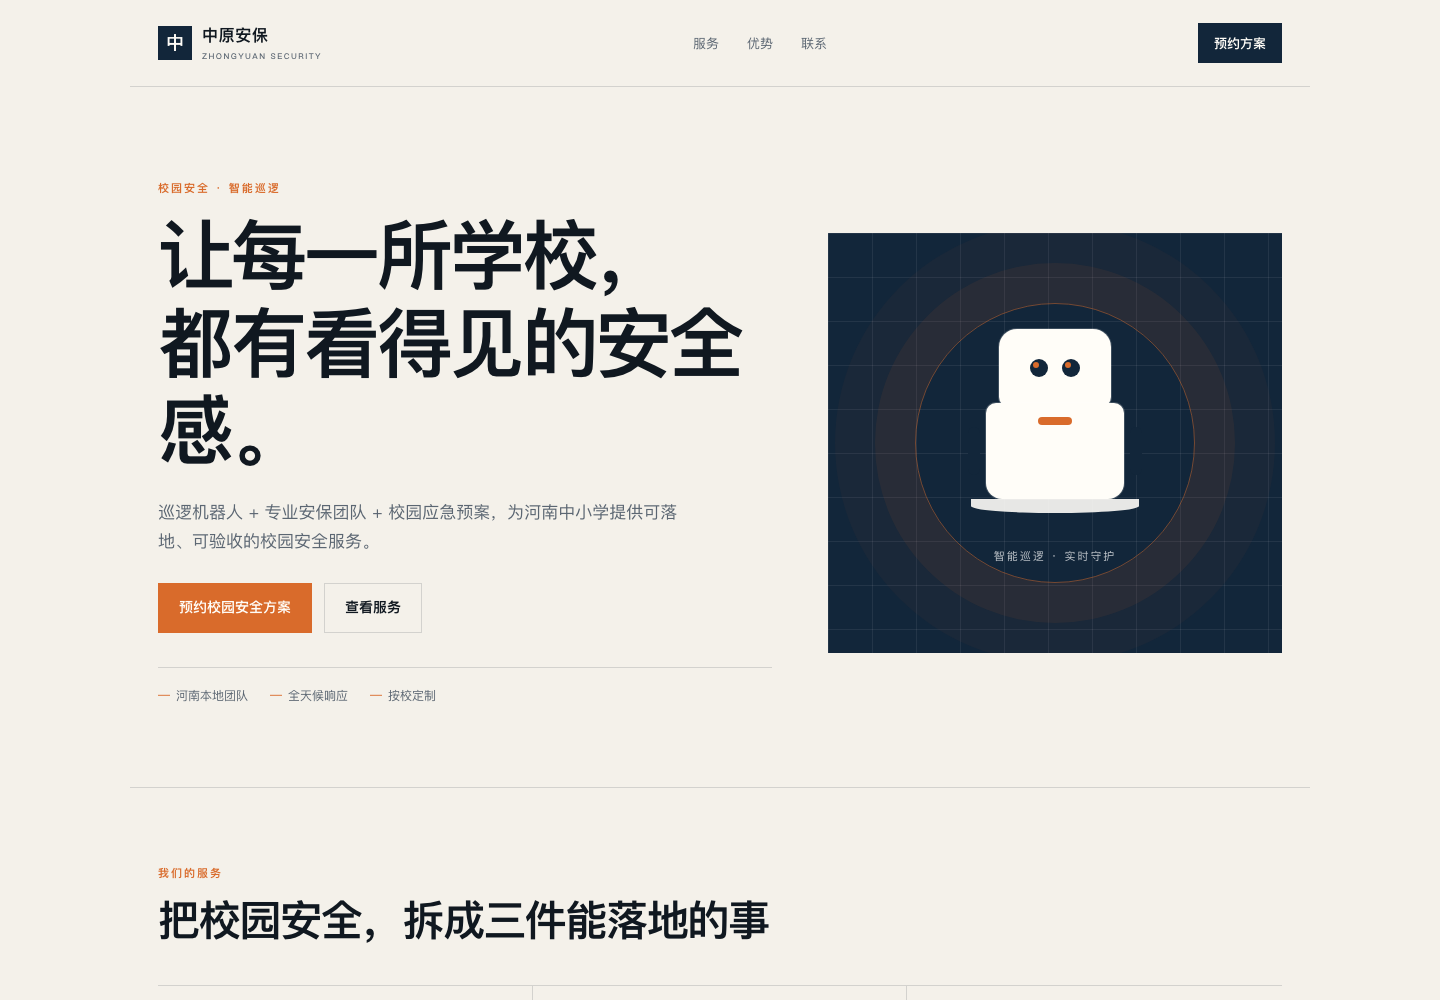
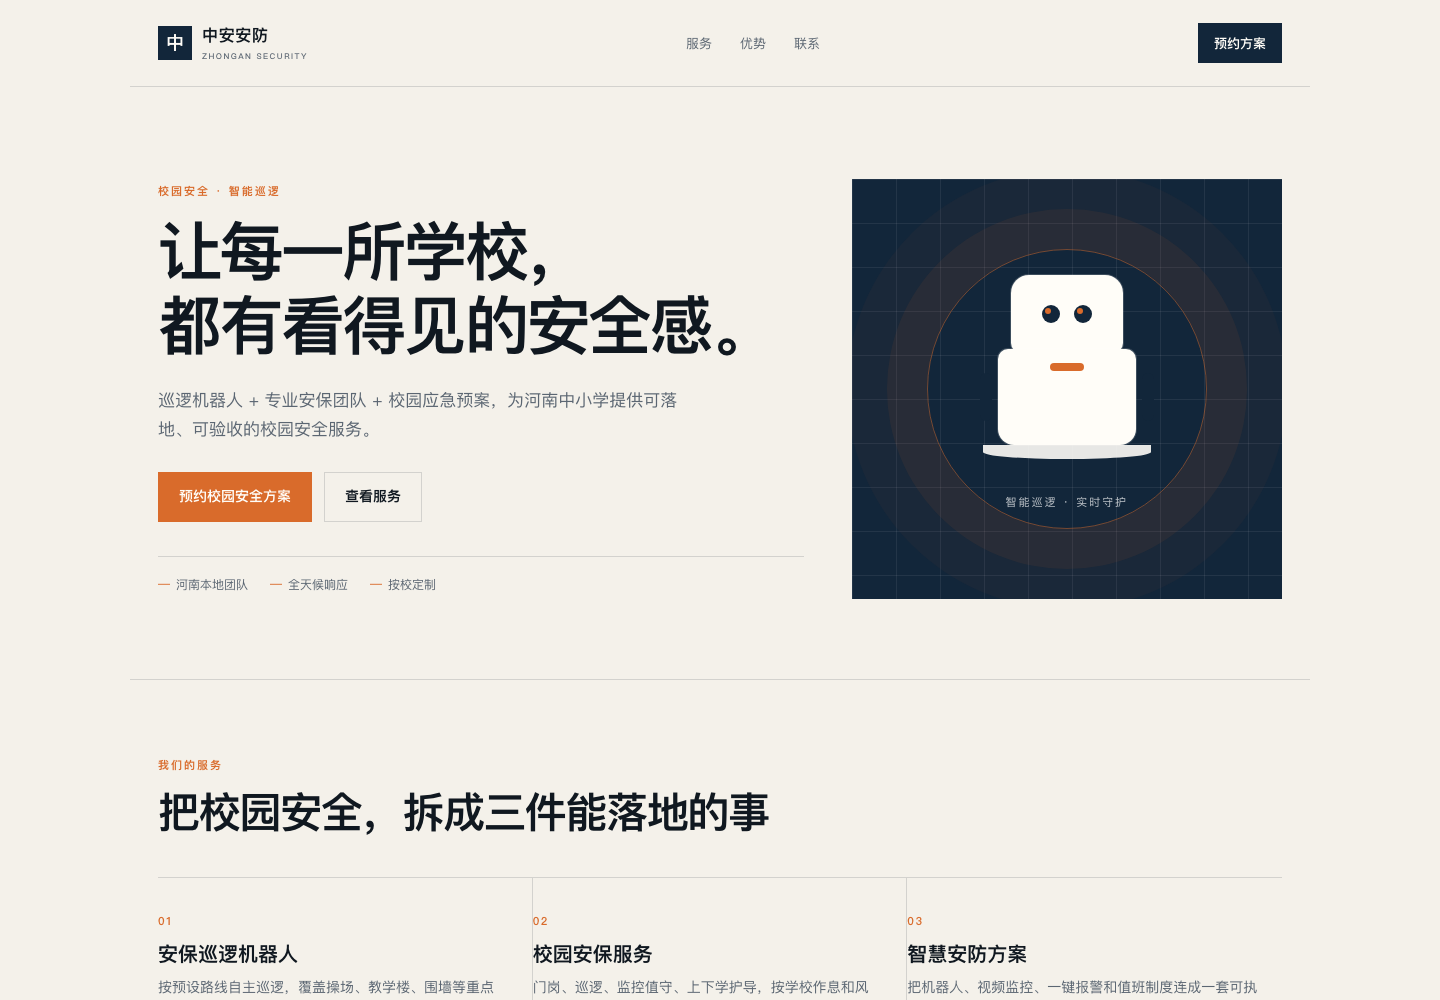
polish company info and add week 2 tasks

diff --git a/index.html b/index.html
@@ -10,12 +10,12 @@
   <header class="nav">
     <a class="brand" href="#">
       <span class="brand-mark">中</span>
-      <span class="brand-text">中安安防<small>ZHONGYUAN SECURITY</small></span>
+      <span class="brand-text">中安安防<small>ZHONGAN SECURITY</small></span>
     </a>
     <nav class="nav-links">
       <a href="#services">服务</a>
       <a href="#advantages">优势</a>
-      <a href="#contact">联系13683718999</a>
+      <a href="#contact">联系</a>
     </nav>
     <a class="nav-cta" href="#contact">预约方案</a>
   </header>
@@ -120,7 +120,7 @@
 
     <section class="quote">
       <p>“校园安全不是一次检查，而是每一天都能被看见、被记录、被响应。”</p>
-      <span>—— 中原安保</span>
+      <span>—— 中安安防</span>
     </section>
 
     <section class="section contact" id="contact">
@@ -132,17 +132,17 @@
       <div class="contact-card">
         <p class="contact-label">电话咨询</p>
         <a class="contact-phone" href="tel:13683718999">13683718999</a>
-        <p class="contact-label">邮箱77878888@qq.com</p>
-        <a class="contact-mail" href="mailto:contact@example.com">contact@example.com</a>
+        <p class="contact-label">邮箱</p>
+        <a class="contact-mail" href="mailto:77878888@qq.com">77878888@qq.com</a>
         <p class="contact-note">地址：河南 · 郑州</p>
-        <a class="btn primary full" href="mailto:contact@example.com?subject=校园安全方案咨询">发送咨询邮件</a>
+        <a class="btn primary full" href="mailto:77878888@qq.com?subject=校园安全方案咨询">发送咨询邮件</a>
       </div>
     </section>
   </main>
 
   <footer class="footer">
-    <span>中安安保 · 校园安全服务</span>
-    <span>© 2026 中原安保</span>
+    <span>中安安防 · 校园安全服务</span>
+    <span>© 2026 中安安防</span>
   </footer>
 </body>
 </html>

diff --git a/styles.css b/styles.css
@@ -57,8 +57,8 @@ a { color: inherit; text-decoration: none; }
   margin: 0 auto;
   padding: 92px 28px 80px;
   display: grid;
-  grid-template-columns: 1.15fr .85fr;
-  gap: 56px;
+  grid-template-columns: 1.2fr .8fr;
+  gap: 48px;
   align-items: center;
 }
 .eyebrow {
@@ -66,7 +66,7 @@ a { color: inherit; text-decoration: none; }
   color: var(--accent); font-weight: 700; margin: 0 0 14px;
 }
 h1, h2, h3 { margin: 0; line-height: 1.15; }
-h1 { font-size: clamp(42px, 6vw, 76px); letter-spacing: -.04em; font-weight: 700; overflow-wrap: anywhere; }
+h1 { font-size: clamp(42px, 5vw, 64px); letter-spacing: -.04em; font-weight: 700; overflow-wrap: anywhere; }
 h2 { font-size: clamp(28px, 3.4vw, 42px); letter-spacing: -.03em; font-weight: 700; }
 h3 { font-size: 20px; font-weight: 700; }
 .lede { font-size: 17px; color: var(--muted); max-width: 520px; margin: 24px 0 28px; }
